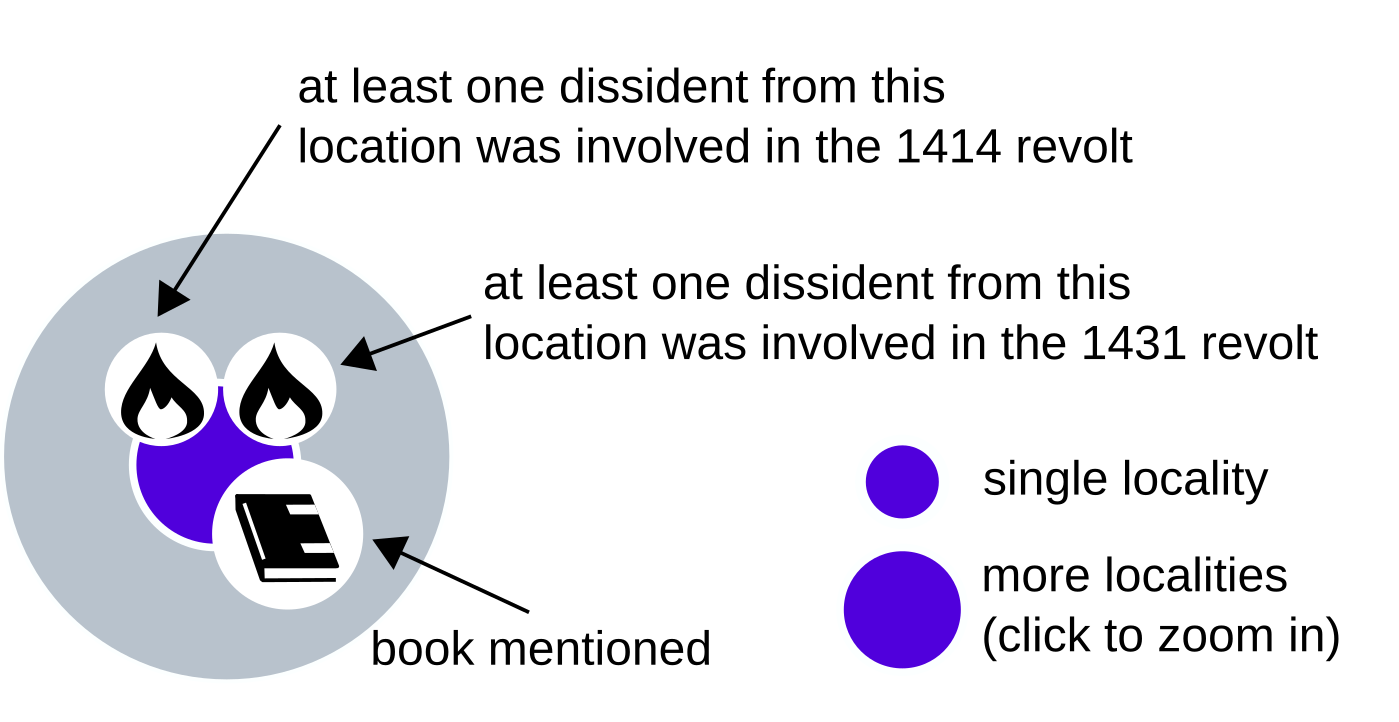
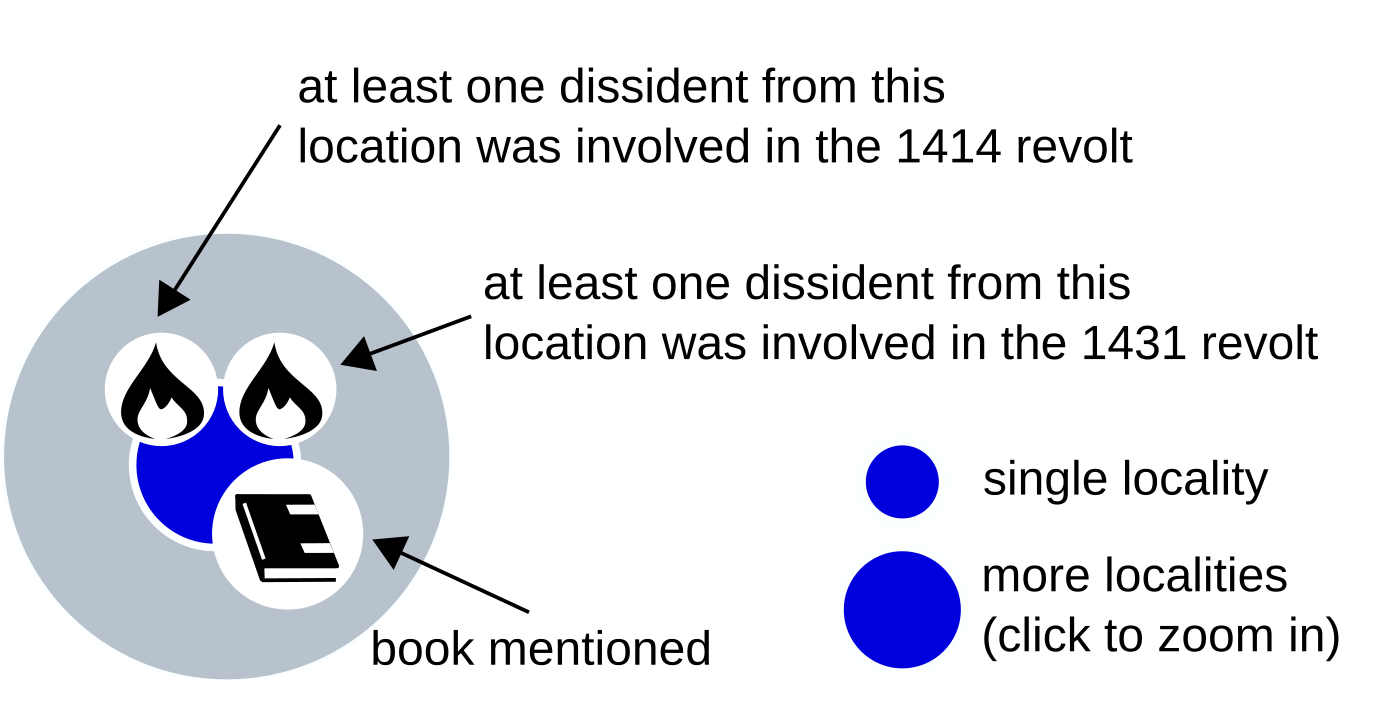
REFACTOR: Update color scheme

Changed region(s): [[0.584, 0.7618, 0.7069, 0.9446], [0.0922, 0.5485, 0.2152, 0.7618], [0.6147, 0.6094, 0.6762, 0.7313]]

diff --git a/app/components/map.tsx b/app/components/map.tsx
@@ -8,7 +8,7 @@ import {
   TileLayer,
   LayersControl,
   LayerGroup,
-  ScaleControl
+  ScaleControl,
 } from "react-leaflet";
 
 import "leaflet.markercluster";
@@ -50,7 +50,7 @@ export default class MapComponent extends React.Component<Props> {
         removeOutsideVisibleBounds: true,
         iconCreateFunction: this.clusterMarkerIcon.bind(this),
         animate: false,
-        singleMarkerMode: true
+        singleMarkerMode: true,
       });
       this.clusters.addTo(this.mapEl);
       this.loadClusters();
@@ -73,7 +73,7 @@ export default class MapComponent extends React.Component<Props> {
         fillOpacity: 1,
         weight: 0,
         radius: 10,
-        data: feature.properties
+        data: feature.properties,
       }).bindPopup(
         "<div>[<i>" +
           feature.properties.id +
@@ -90,11 +90,11 @@ export default class MapComponent extends React.Component<Props> {
     const markers = cluster.getAllChildMarkers();
     const single = markers.length === 1;
 
-    const revolt1No = markers.filter(m => m.options.data.revolt1414 === "1")
+    const revolt1No = markers.filter((m) => m.options.data.revolt1414 === "1")
       .length;
-    const revolt2No = markers.filter(m => m.options.data.revolt1431 === "1")
+    const revolt2No = markers.filter((m) => m.options.data.revolt1431 === "1")
       .length;
-    const booksNo = markers.filter(m => m.options.data.books === "1").length;
+    const booksNo = markers.filter((m) => m.options.data.books === "1").length;
 
     const svgEl = document.createElement("svg");
     svgEl.setAttribute("id", "marker " + cluster._leaflet_id);
@@ -119,8 +119,6 @@ export default class MapComponent extends React.Component<Props> {
       .attr("width", svgSizeX)
       .attr("height", svgSizeY);
 
-    const strokeWidth = 0.7;
-
     const gSymbols = svg
       .append("g")
       .style("stroke", "black")
@@ -130,12 +128,14 @@ export default class MapComponent extends React.Component<Props> {
         "translate(" + svgSizeX / 2 + " " + svgSizeY / 2 + ") "
       );
 
+    /*
     const gText = svg
       .append("g")
       .attr("class", "cluster-texts")
       .attr("font-size", "10")
       .style("text-anchor", "middle")
       .attr("transform", "translate(25 35)");
+      */
 
     if (markers.length > 1) {
       const r = 16;
@@ -226,7 +226,7 @@ export default class MapComponent extends React.Component<Props> {
     return L.divIcon({
       html: svgEl.outerHTML,
       className: "marker-icon " + (single ? "marker-single" : "marker-cluster"),
-      iconSize: L.point(radius * 2, radius * 2)
+      iconSize: L.point(radius * 2, radius * 2),
     });
   }
 
@@ -240,7 +240,7 @@ export default class MapComponent extends React.Component<Props> {
     L.icon({
       iconUrl: "https://unpkg.com/leaflet@1.5.1/dist/images/marker-icon.png",
       iconSize: [25, 40],
-      iconAnchor: [12, 40]
+      iconAnchor: [12, 40],
     });
 
     return (

diff --git a/app/components/welcome.tsx b/app/components/welcome.tsx
@@ -1,5 +1,4 @@
 import * as React from "react";
-import { propTypes } from "mobx-react";
 
 import Hero from "./hero";
 
@@ -41,7 +40,7 @@ export default class WelcomeComponent extends React.Component<Props> {
     const dateOptions = {
       year: "numeric",
       month: "long",
-      day: "numeric"
+      day: "numeric",
     };
     const now = new Date();
 
@@ -190,8 +189,11 @@ export default class WelcomeComponent extends React.Component<Props> {
               unauthorized book owners, and participants in revolts related to
               Lollardy based on their trials (v. {window["version"]}). Dissident
               Networks Project (DISSINET). Retrieved{" "}
-              {now.toLocaleDateString("en-US", dateOptions)}, from
-              https://dissinet.cz/publications/maps/lollards.
+              {now.toLocaleDateString("en-US", dateOptions)}, from{" "}
+              <a href="https://dissinet.cz/maps/lollards">
+                https://dissinet.cz/maps/lollards
+              </a>
+              .
             </p>
           </div>
           <div className="footer w-100 bg-grey p-4 table-row">

diff --git a/tailwind.theme.js b/tailwind.theme.js
@@ -2,10 +2,10 @@ let defaultConfig = require("tailwindcss/defaultConfig")();
 
 let theme = {
   transparent: "transparent",
-  muni: "#5000dc",
+  muni: "#0000dcff",
   secondary: "#dcdc00",
   danger: "#dc0000",
-  success: "#00dc00"
+  success: "#00dc00",
 };
 
 const colors = Object.assign({}, theme, defaultConfig.colors);
@@ -13,5 +13,5 @@ const colors = Object.assign({}, theme, defaultConfig.colors);
 module.exports = {
   colors: colors,
   textColors: colors,
-  backgroundColors: colors
+  backgroundColors: colors,
 };

diff --git a/build/styles.css b/build/styles.css
@@ -1,0 +1,7 @@
+@import "./../node_modules/leaflet/dist/leaflet.css";
+@import "./css/tailwind/preflight.css";
+@import "./css/custom-preflight.css";
+@import "./css/tailwind/components.css";
+@import "./css/dissinet.css";
+@import "./css/custom-components.css";
+@import "./css/tailwind/utilities.css";

diff --git a/app/index.tsx b/app/index.tsx
@@ -5,7 +5,7 @@ import * as ReactDOM from "react-dom";
 import App from "./components/app";
 import Store from "./store";
 
-import data from "./../data/data";
+import data from "./../data/data.json";
 console.log(data);
 
 window["store"] = new Store(data);
